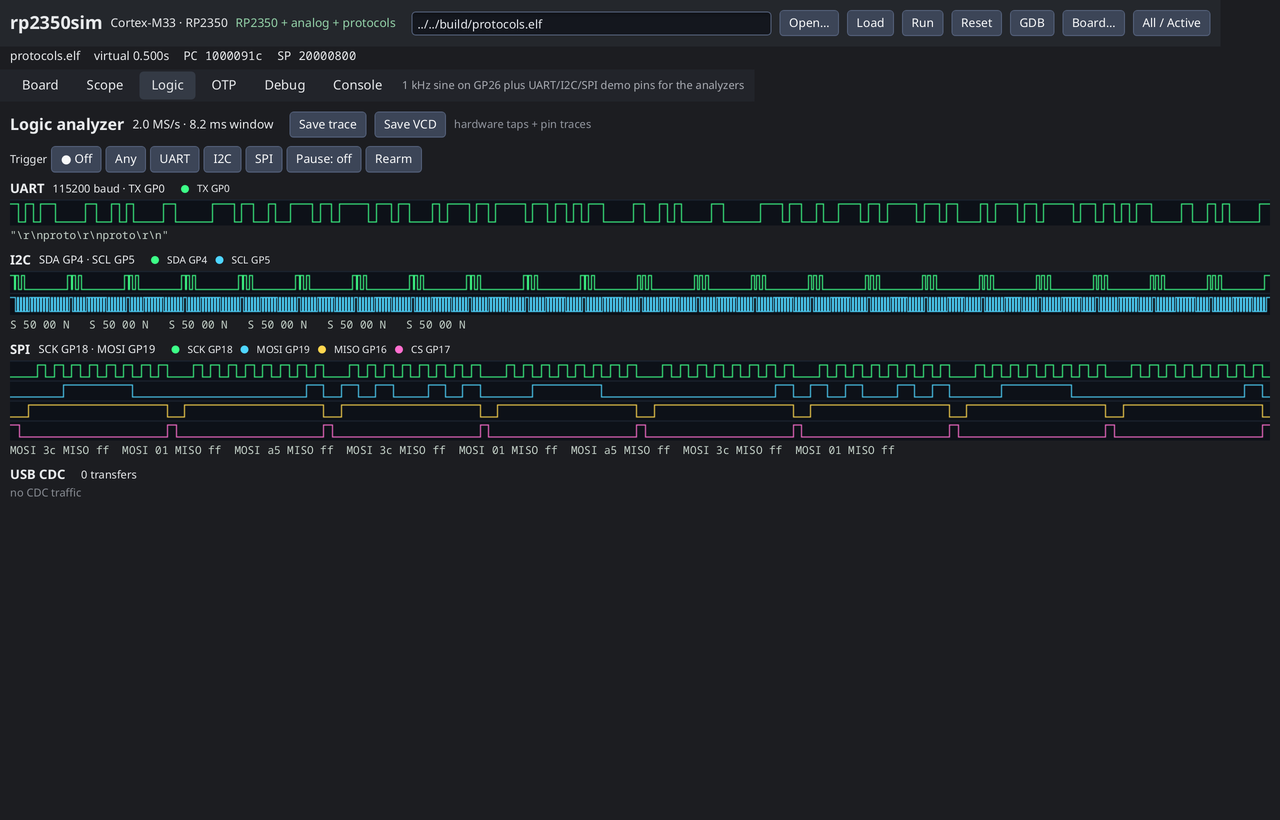
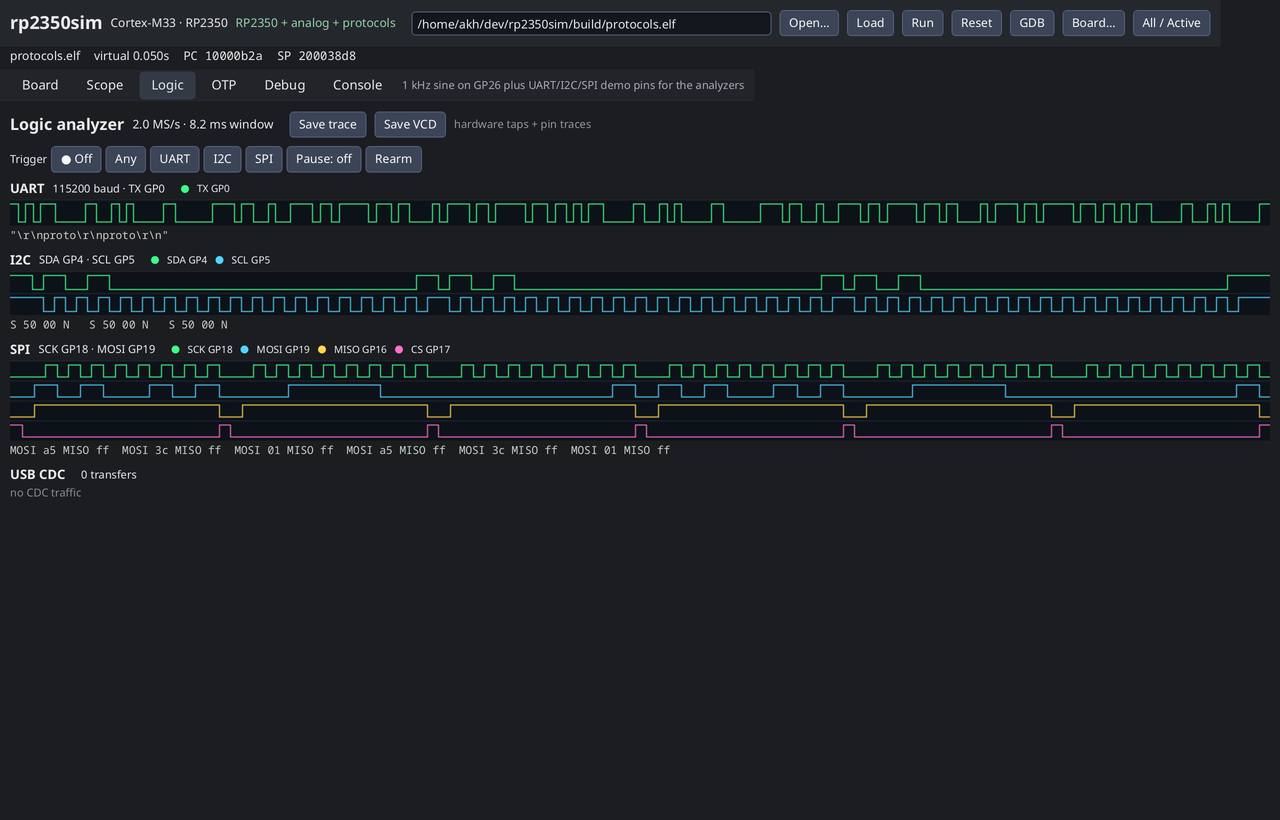
docs: refresh screenshots and cover the recent features

diff --git a/docs/peripherals.md b/docs/peripherals.md
@@ -17,7 +17,14 @@ commands and UI steps; the register-level wiring lives in
 | SPI0/1 | `-logic-spi` | Logic | `protocols` |
 | I2C0/1 | `-i2c-tcp`, `-logic-i2c` | `i2c_tcp`, Bus, Logic | `busmaster` |
 | PIO | `-logic-pins`, `-continue-after-halt` | Logic, Scope | `piotest`, `ws2812` |
-| USB CDC | `-input`, `-stdin`, `-expect` | Console | `echo` |
+| USB CDC (TinyGo, TinyUSB) | `-input`, `-stdin`, `-expect` | Console | `echo`, `firmware/c/usbhello` |
+| USB-MIDI / UART MIDI | `-usb-midi`, `-midi-uart`, `-midi-udp` | `midi`, MIDI | `midi` |
+| Audio (I2S/PDM/PWM) | `-audio-*`, `-audio-out` | `audio`, Audio | `audio` |
+| HSTX / DVI | `-dvi-png` | `hstx`, DVI | pico-examples DVI |
+| RP2350B QFN-80 | `-rp2350b` | `package: qfn80` | `pico-examples` |
+| TRNG / SHA-256 | no user flag | no tab | pico-examples `rand`, `sha256` |
+| POWMAN AON timer | no user flag | no tab | `firmware/c/aontimer` |
+| GDB remote | `-gdb ADDR` | Debug, toolbar GDB | any ELF |
 | DMA, timers, watchdog | no user flag | no tab | `pico-examples` |
 | ST7789 LCD | `-lcd`, `-touch-lcd2`, `-lcd-png` | `lcd`, LCD | `lcd`, `touchlcd` |
 | CST816D touch | `-touch-lcd2`, `-touch` | `touch`, LCD, Sensors | `touchlcd` |
@@ -31,7 +38,7 @@ commands and UI steps; the register-level wiring lives in
 | WS2812B strip | `-ws2812 GPIO` | `ws2812`, LEDs | `ws2812` |
 | QSPI PSRAM | `-psram 8 -psram-latency 6` | `psram`, Board status | `firmware/c/psram` |
 | OTP fuses | `-otp`, `-otp-dump` | OTP | `firmware/c/otp` |
-| Flash / OTA | `-flash`, `-flash-out` | `--flash`, Board banner | `firmware/c/ota` |
+| Flash / OTA, A/B slots | `-flash`, `-flash-out` | `--flash`, Board banner | `firmware/c/ota` |
 | Logic analyzer | `-logic-*` | Logic | `protocols` |
 | Oscilloscope | power trace + `pincheck` | Scope | `pico2-analog` |
 | Bus Pirate target | `-i2c-tcp`, `-spi-tcp` | `i2c_tcp` / `spi_tcp`, Bus | `busmaster`, `busdevice` |
@@ -42,7 +49,7 @@ Build the demo firmware once with:
 task firmware:blinky firmware:lcd firmware:touchlcd firmware:piotest \
   firmware:ws2812 firmware:w5500 firmware:w6300 firmware:ch9120 firmware:wifi \
   firmware:protocols firmware:serialbridge firmware:busmaster firmware:busdevice \
-  firmware:cores firmware:sdcard
+  firmware:cores firmware:sdcard firmware:audio firmware:midi
 ```
 
 ## GPIO, PWM and ADC
@@ -148,9 +155,19 @@ by the **Logic** tab from pin traces. Reference firmware: `piotest`, `ws2812`.
 printf 'hello\r' | rp2350sim -fw build/echo.elf -seconds 1 -stdin
 ```
 
+Both the TinyGo CDC console and stock Pico SDK TinyUSB CDC stdio work. The
+emulated host follows the configuration descriptor, the DPRAM buffer addresses
+in `EP_CONTROL`, the control status stage and host OUT data PIDs.
+
 **UI.** The **Console** tab shows USB CDC + UART output. Click it to focus,
 then type; Enter, Backspace, Tab and the arrow keys reach the firmware. UART
 bridges and Bus Pirate status lines are listed in the same tab.
+
+![Console tab with TinyUSB CDC output](images/console.png)
+
+Reference firmware: `echo` (TinyGo), `firmware/c/usbhello` and
+`firmware/c/usbecho` (TinyUSB). Tasks: `task ui`, `task c:usbhello`,
+`task c:usbecho`.
 
 ## ST7789 LCD
 
@@ -197,6 +214,28 @@ inject touches by clicking or dragging the **LCD** panel.
 ![Sensors tab on the RP2350-Touch-LCD-2](images/sensors.png)
 
 Reference board: `touch-lcd2`. Task: `task ui:touchlcd`.
+
+## HSTX and DVI
+
+**Headless.** The HSTX command expander and TMDS encoder are decoded into a
+framebuffer. `-dvi-png PATH` writes the last complete frame:
+
+```sh
+rp2350sim -fw build/pico-examples/build/dvi_out_hstx_encoder/dvi_out_hstx_encoder.elf \
+  -seconds 0.5 -dvi-png dvi.png
+```
+
+The reference firmware is the stock pico-examples `hstx/dvi_out_hstx_encoder`
+(640×480 RGB332 on GP12–19); `task picoexamples:build` builds it. Frames are
+captured at the active width; the height is inferred from the common DVI modes
+(640×480, 320×240, 800×600, 1280×720). Serial TMDS timing is not modelled, and
+multi-word RAW / TMDS_REPEAT recirculation are fidelity gaps.
+
+**UI.** The `pico2-dvi` board enables the **DVI** tab, which shows the last
+frame and offers **Save PNG**. `task ui:dvi` opens it; `task ui:dvi:png`
+renders it headlessly.
+
+![DVI tab with the stock HSTX example](images/dvi.png)
 
 ## microSD and FAT16
 
@@ -327,6 +366,21 @@ the C demo.
 Reference firmware: `firmware/c/psram`. Tasks: `task c:psram`,
 `task ui:psram`.
 
+## RP2350B (QFN-80)
+
+**Headless.** `-rp2350b` models the QFN-80 package: SYSINFO reports package
+select 0 and the pin model exposes GP0–GP47. PIO `GPIOBASE` 0/16 gives its
+32-pin window access to GP32–47.
+
+**UI.** Set `package: qfn80` in `boards.yaml`; the `pico2b` board does this.
+The Board tab and GPIO table list all 48 pins, and the scope offers GP0–GP47.
+Pass `--board pico2b` (or select it in the picker).
+
+![RP2350B board with 48 GPIOs](images/rp2350b.png)
+
+The RP2350A default remains 30 GPIOs; `rp2350sim -rp2350b` is the headless
+equivalent. See [boards.md](boards.md#rp2350b-qfn-80) for the package limits.
+
 ## OTP fuses
 
 **Headless.** The OTP array is 4096 rows of 24 bits with fuse semantics and
@@ -351,6 +405,34 @@ run the C OTP example to populate it.
 
 Reference firmware: `firmware/c/otp`. Task: `task c:otp`.
 
+## TRNG, SHA-256 and the AON timer
+
+The RP2350 crypto and always-on blocks are functional; they have no UI tab, so
+the runner console is the interface:
+
+```sh
+# SHA-256 vector + 1 MB NIST test, with and without DMA
+rp2350sim -fw build/pico-examples/build/sha256/hello_sha256.elf \
+  -seconds 3 -expect Success -stop-on-expect
+
+# pico_rand distribution test through the TRNG
+rp2350sim -fw build/pico-examples/build/rand/rand.elf \
+  -seconds 3 -expect 'All done' -stop-on-expect
+
+# POWMAN 1 kHz timer, alarm and IRQ 45 through pico_aon_timer
+rp2350sim -fw firmware/c/build/aontimer.elf -seconds 2 \
+  -expect 'aon alarm 1001' -stop-on-expect
+```
+
+The TRNG produces deterministic EHR words from a seeded stream; reading the
+last EHR word starts a new 192-bit sample. SHA-256 supports word, halfword and
+byte WDATA writes (including DMA_SIZE_8), BSWAP and SUM0–7. POWMAN models the
+millisecond counter, set/read time, alarm and timer interrupt; deep-sleep power
+sequencing is not modelled.
+
+Reference firmware: pico-examples `sha/sha256` and `system/rand`,
+`firmware/c/aontimer`. Tasks: `task c:aontimer`, `task picoexamples:build`.
+
 ## Flash and OTA
 
 **Headless.** `-flash PATH` loads a raw 16 MiB image and writes it back after a
@@ -369,6 +451,13 @@ rp2350sim -flash build/ota.bin -seconds 0.2 -quiet
 tab shows a banner naming the flash image, its boot number and entry point;
 the status line changes the ELF name to `(flash)`. `task ui:ota` and
 `task ui:ota-png` run/render the demo.
+
+![Board banner after an OTA self-update](images/ota.png)
+
+Raw flash images can also carry the PT25 A/B table: the bootrom-style loader
+picks the highest-version executable slot, or the active/preferred one, maps
+its storage into the `0x10000000` window, and `rom_reboot(FLASH_UPDATE)`
+prefers the slot just written for exactly one boot. See [cli.md](cli.md#flash-and-self-update).
 
 Reference firmware: `firmware/c/ota`. Task: `task c:ota`.
 
@@ -455,10 +544,11 @@ rp2350sim -fw build/midi.elf -seconds 5 -usb-midi -midi-monitor \
 A datagram of raw MIDI bytes is parsed (running status included) and delivered
 to the firmware on endpoint 3 or the UART receive FIFO. Firmware messages are
 logged and sent back to the last UDP sender. The UART tap watches TX only, so
-an echo firmware cannot feed itself. The emulated host accepts the composite
-CDC+MIDI descriptor (`descriptor.CDCMIDI`) and enumerates endpoint 3 alongside
-the CDC console. System Exclusive (`F0`..`F7`) is not reassembled or forwarded;
-the monitor reports the parsed channel and system messages only.
+an echo firmware cannot feed itself. When both `-usb-midi` and `-midi-uart` are
+set, host messages are delivered to both transports. The emulated host accepts
+the composite CDC+MIDI descriptor (`descriptor.CDCMIDI`) and enumerates endpoint
+3 alongside the CDC console. System Exclusive (`F0`..`F7`) is not reassembled
+or forwarded; the monitor reports the parsed channel and system messages only.
 
 **UI.** The **MIDI** tab lists messages newest first with raw bytes and cycle
 time, and provides a two-octave piano keyboard across the full panel width
@@ -481,8 +571,9 @@ The UI **Scope** has up to eight channels, each with its own colour, 1 MHz
 sampling and a ~16 ms window. Any GPIO 0–47 can be added (RP2350A packages
 only bond 0–29). The legend shows the latest voltage and live
 frequency/duty/period readouts via the same edge measurement as `pincheck`.
-**Trigger** supports Off/Rise/Fall/High/Low on a chosen GPIO; a match freezes
-the window with a quarter of post-trigger data and marks the trigger instant.
+**Trigger** supports Off/Rise/Fall/High/Low on a chosen GPIO; the trigger pin
+is added to the channels if it is not already selected. A match freezes the
+window with a quarter of post-trigger data and marks the trigger instant.
 **Time Zoom** changes the window from 1× to 64×, **Range** selects 0.5, 1, 1.65,
 2, 3.3 or 5 V full scale, and **Reset** restores 1×/3.3 V. `analog:` board
 entries drive generated sine, square or triangle sources.

diff --git a/docs/debug.md b/docs/debug.md
@@ -116,9 +116,10 @@ arm-none-eabi-gdb build/blinky.elf
 
 - Threads are the two cores: `Thread 1 "core0"` and `Thread 2 "core1"`.
   `thread 2` selects core 1 for registers and stepping.
-- `Z0`/`Z1` are execution breakpoints, `Z2`/`Z3`/`Z4` are write/read/access
-  watchpoints (the model checks writes only). They use the same debugger as
-  the Debug tab, so `-break` symbols and GDB breakpoints can coexist.
+- `Z0`/`Z1` are execution breakpoints and `Z2` is a write watchpoint. `Z3`/`Z4`
+  (read/access watchpoints) are rejected as unsupported rather than pretending
+  to work. They use the same debugger as the Debug tab, so `-break` symbols and
+  GDB breakpoints can coexist.
 - `s`/`stepi` and `vCont` step one instruction on the selected core; a step
   wakes a core sleeping in WFE/WFI.
 - `continue` resumes all cores. A client interrupt (Ctrl-C) halts the target.
@@ -135,6 +136,20 @@ arm-none-eabi-gdb build/blinky.elf
   at launch, and the toolbar **GDB** button starts or stops it on the configured
   address (default `127.0.0.1:3333`). The second toolbar row shows the listening
   address while it is active.
+
+A non-interactive attach looks like this (the Python-data-directory warnings
+are trimmed):
+
+```text
+$ arm-none-eabi-gdb -q -batch --data-directory=/usr/share/gdb \
+    -ex 'file build/debugvars.elf' -ex 'target remote 127.0.0.1:3333' \
+    -ex 'break main.marker' -ex continue -ex 'info registers pc sp' -ex detach
+Breakpoint 1 at 0x10002024: file firmware/debugvars/main.go, line 21.
+Thread 1 "core0" hit Breakpoint 1, main.marker (arg=305419896) at ...
+pc             0x10002024          0x10002024 <main.marker+16>
+sp             0x20003850          0x20003850
+[Inferior 1 (Remote target) detached]
+```
 
 ## Fixtures and tests
 

diff --git a/docs/README.md b/docs/README.md
@@ -78,9 +78,11 @@ See [ci.md](ci.md) for the full recipe.
 
 ## Supported targets at a glance
 
-- **Raspberry Pi Pico 2** (RP2350A), TinyGo and **Pico SDK C**: GPIO, UART,
-  SPI, I2C, PWM, ADC, PIO, USB CDC console (TinyGo), DMA, timers, multicore,
-  OTP and optional QSPI PSRAM on QMI CS1.
+- **Raspberry Pi Pico 2** (RP2350A) and **RP2350B** (QFN-80, 48 GPIOs), TinyGo
+  and **Pico SDK C**: GPIO, UART, SPI, I2C, PWM, ADC, PIO, USB CDC (TinyGo and
+  TinyUSB), USB-MIDI, audio capture, DMA, timers, multicore, OTP, TRNG/SHA-256,
+  the always-on timer, HSTX/DVI output, a GDB server and optional QSPI PSRAM on
+  QMI CS1. Raw flash images may use the emulator's A/B partition table.
   See [c.md](c.md) for the C path and its current limits.
 - **Pico 2 W**: a *virtual* Wi-Fi netdev backed by the host stack. The real
   CYW43439 radio and Bluetooth are not emulated; see [boards.md](boards.md).
@@ -93,6 +95,15 @@ See [ci.md](ci.md) for the full recipe.
 - **Waveshare RP2350-ETH** (non-PoE): CH9120 UART-to-Ethernet on UART1.
 - Breadboard variants: W5500 on SPI0, ST7789, WS2812B, UART over TCP and
   remote I2C/SPI devices over Bus Pirate tokens.
+
+## UI highlights
+
+| DVI output | USB-MIDI |
+|---|---|
+| ![DVI tab decoding the stock HSTX example](images/dvi.png) | ![MIDI tab with the piano and monitor](images/midi.png) |
+
+The [UI guide](ui.md) covers the board picker, every tab, the scope and logic
+analyzer, audio, MIDI, DVI and headless snapshots.
 
 ## Design notes
 

diff --git a/docs/boards.md b/docs/boards.md
@@ -11,6 +11,11 @@ and reference firmware. In short:
 |---|---|
 | `pico2` | none |
 | `pico2-lcd` | `-lcd` |
+| `pico2-dvi` | `-dvi-png PATH` |
+| `pico2b` | `-rp2350b` |
+| `pico2-audio` | `-audio-pwm 0 -audio-out PATH` |
+| `pico2-midi` | `-usb-midi -midi-monitor` |
+| `pico2-midi-uart` | `-midi-uart 1 -midi-monitor` |
 | `pico2-ws2812` | `-ws2812 0` |
 | `geek` | `-lcd -sd` (or `-sd-dir`) |
 | `touch-lcd2` | `-touch-lcd2` (plus `-touch`, `-sensors`, `-lcd-png`) |
@@ -194,6 +199,8 @@ project.
   `pico2b` and the `-rp2350b` flag expose the extra pins in the scope and GPIO
   table.
 
+![RP2350B board with 48 GPIOs](images/rp2350b.png)
+
 ## HSTX and DVI
 
 The RP2350 HSTX block is modelled at `0x400C0000` (control) and `0x50600000`
@@ -213,6 +220,8 @@ output or bit timing.
 - The model consumes the single-word RAW_REPEAT blanking used by the example.
   RAW with a count above one and TMDS_REPEAT's shift-register recirculation are
   not expanded; they are noted as fidelity gaps, not used by the DVI demo.
+
+![DVI tab with the stock HSTX example](images/dvi.png)
 
 ## TRNG, SHA-256 and the AON timer
 
@@ -238,6 +247,10 @@ pins the firmware drives.
   31250-baud UART, `-midi-monitor` and `-midi-udp ADDR` for the bridge. UI
   boards `pico2-midi` (USB-MIDI) and `pico2-midi-uart` (UART1 GP4/GP5).
   Reference firmware: `firmware/midi` (USB note traffic plus UART echo).
+
+![Audio tab](images/audio.png)
+
+![MIDI tab](images/midi.png)
 
 ## UART over TCP
 

diff --git a/docs/ui.md b/docs/ui.md
@@ -182,6 +182,17 @@ A board with `psram` shows its size and per-access stall in the status line.
 
 ![Board tab](images/board.png)
 
+The `pico2b` board selects the QFN-80 package: the header diagram, GPIO table
+and scope expose GP0–GP47 instead of the RP2350A's GP0–GP29.
+
+![RP2350B board with 48 GPIOs](images/rp2350b.png)
+
+When the machine boots from a flash image (`--flash`), the status line names
+the image and boot count. After an OTA self-update the board shows the new
+entry point and write count, as in the banner below.
+
+![Board banner after an OTA self-update](images/ota.png)
+
 ### LCD
 
 The ST7789 framebuffer, only for boards with `lcd`. On a touch board, clicking
@@ -382,7 +393,9 @@ rp2350sim-ui --board pico2-bus --tab bus --bus-connect \
 ```
 
 `task ui:ota` opens the same setup live; `task ui:ota-png` writes
-`build/ui-ota.png`. The screenshots in this guide are produced the same way.
+`build/ui-ota.png`. The guide screenshots for DVI, MIDI, audio, scope, logic,
+RP2350B, USB and OTA are regenerated with `task docs:images` (rendered at 2x and
+downscaled to 1280×820).
 
 ## Keyboard
 
